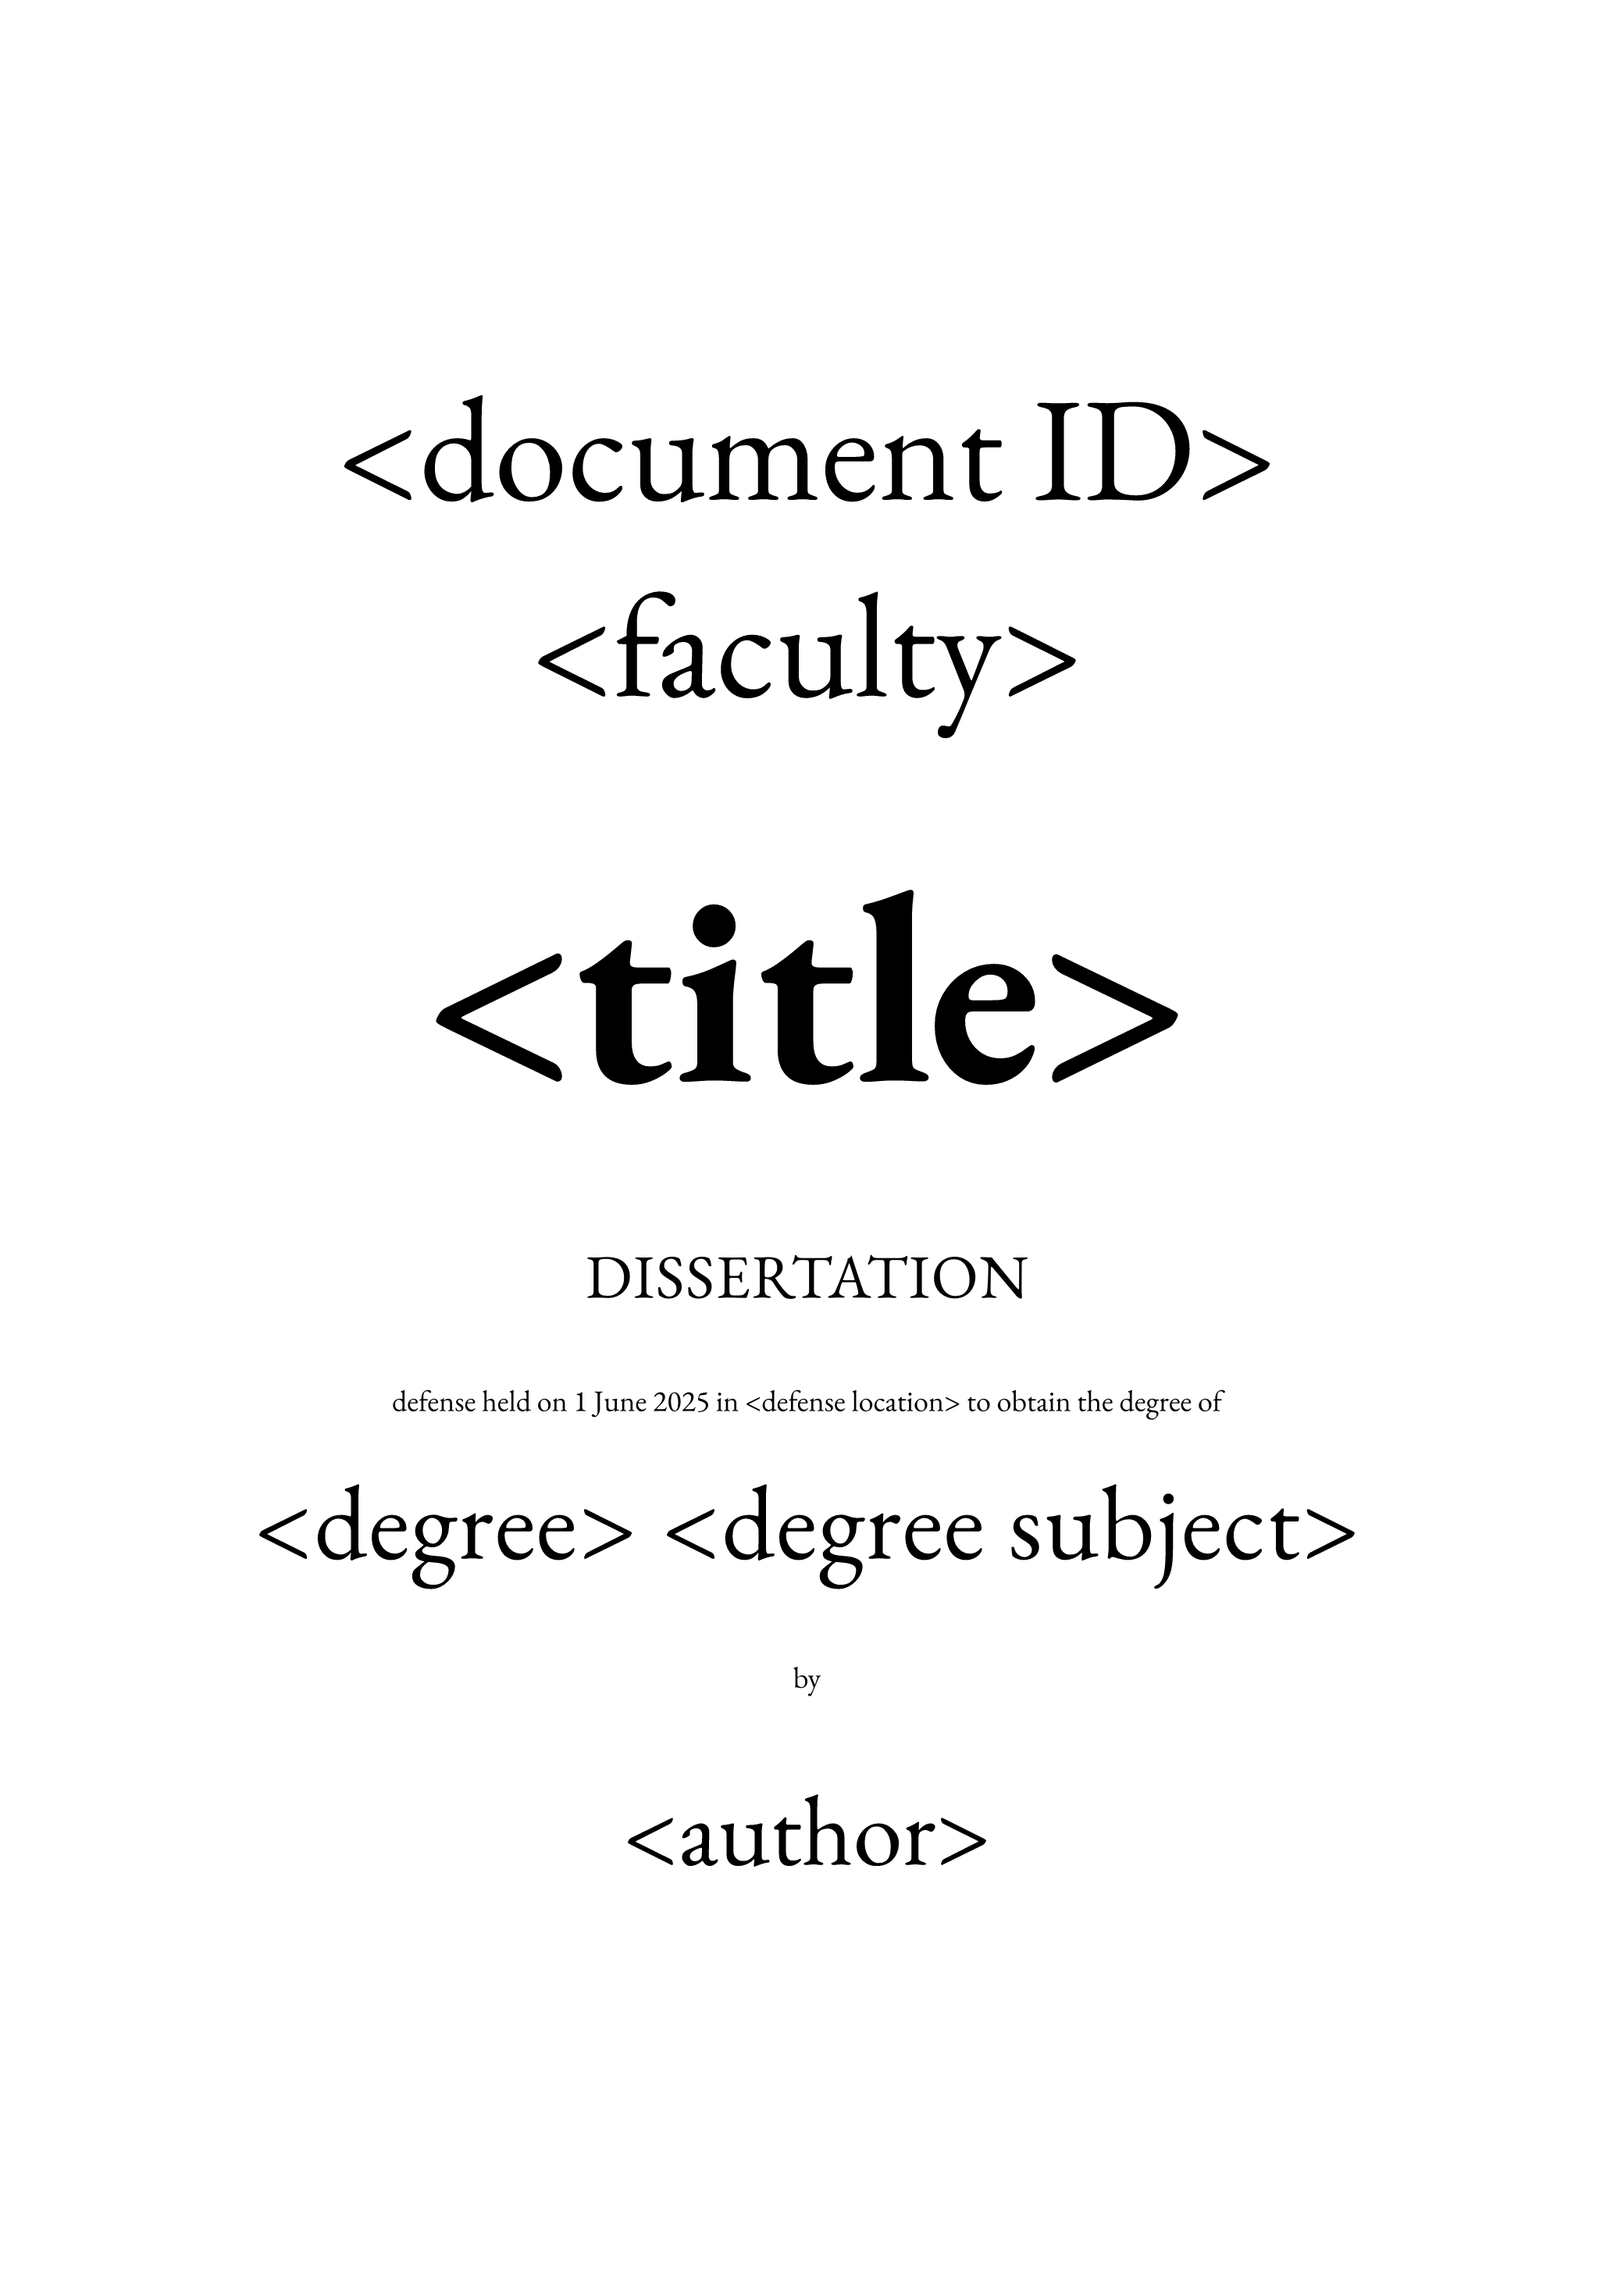
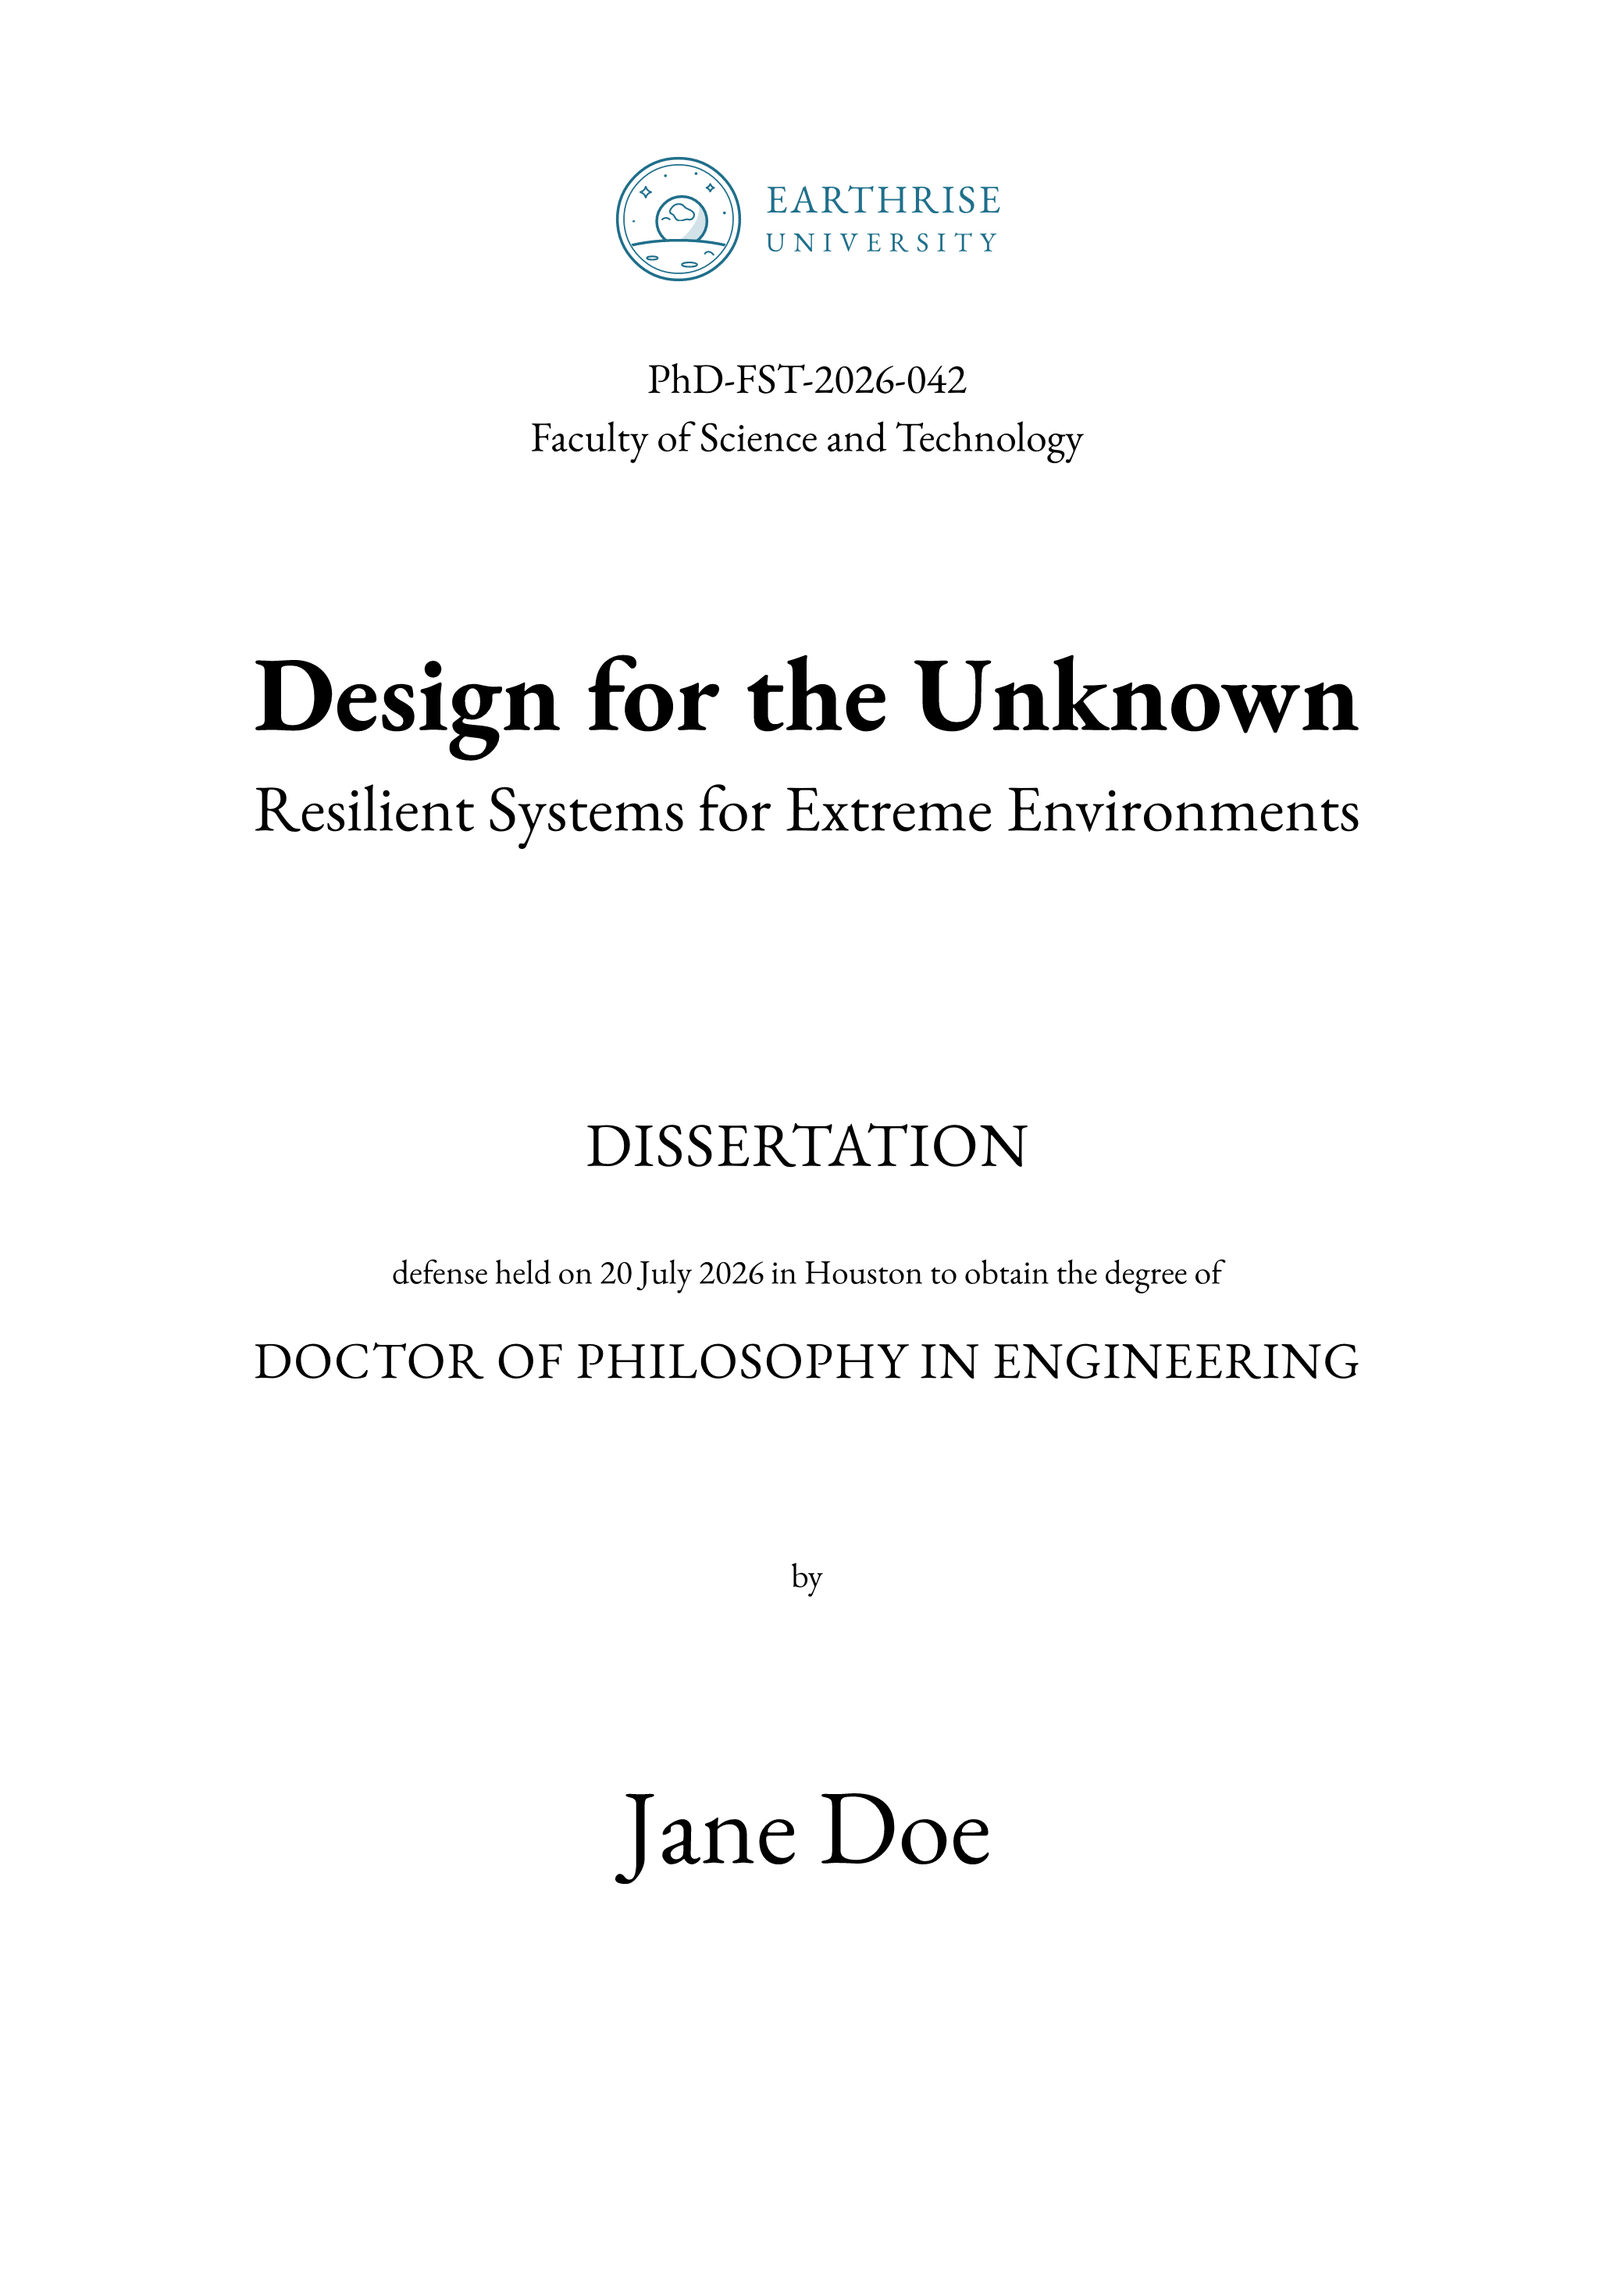
Replace placeholder with a plausible looking front page

diff --git a/packages/preview/earthrise-thesis/0.1.0/README.md b/packages/preview/earthrise-thesis/0.1.0/README.md
@@ -28,7 +28,7 @@ The template is not affiliated with any university. Before you submit, confirm w
    typst compile --font-path fonts --input edition=print thesis.typ thesis_print.pdf
    ```
 
-**Next:** replace the placeholders in `thesis.typ`, such as `<title>`. The [parameters](#parameters) below explain every argument.
+**Next:** replace the example data in `thesis.typ`, such as the title, the names and the logo on the cover. The [parameters](#parameters) below explain every argument.
 
 ## What it provides
 
@@ -57,10 +57,10 @@ Apply `thesis` with a show rule, then write the chapters below it:
 #import "@preview/earthrise-thesis:0.1.0": *
 
 #show: thesis.with(
-  title: "On Distant Worlds",
+  title: "Design for the Unknown",
   author: "Jane Doe",
-  degree: "Doctor of Philosophy",
-  degree-subject: "in Astronomy",
+  degree: "DOCTOR OF PHILOSOPHY",
+  degree-subject: "IN ENGINEERING",
   physical-copy: sys.inputs.at("edition", default: "digital") == "print",
 )
 
@@ -75,7 +75,7 @@ Every argument is optional. A default in angle brackets, such as `"<title>"`, is
 | -------------------------- | -------------------------------- | ----------------------------------------------------------------------- |
 | `title`, `subtitle` | `"<title>"`, `none` | Title and subtitle, also written to the PDF metadata |
 | `author`, `cover-author` | `"<author>"`, `none` | Author; `cover-author` replaces the name on the cover only |
-| `degree`, `degree-subject` | `"<degree>"`, `none` | Degree and subject, such as `"Doctor of Philosophy"` and `"in Physics"` |
+| `degree`, `degree-subject` | `"<degree>"`, `none` | Degree and subject, such as `"DOCTOR OF PHILOSOPHY"` and `"IN PHYSICS"` |
 | `department` | `"<department>"` | Printed in place of `degree-subject` when that is `none` |
 | `doc-id`, `faculty` | `"<document ID>"`, `"<faculty>"` | Document number and faculty, at the top of the cover |
 
